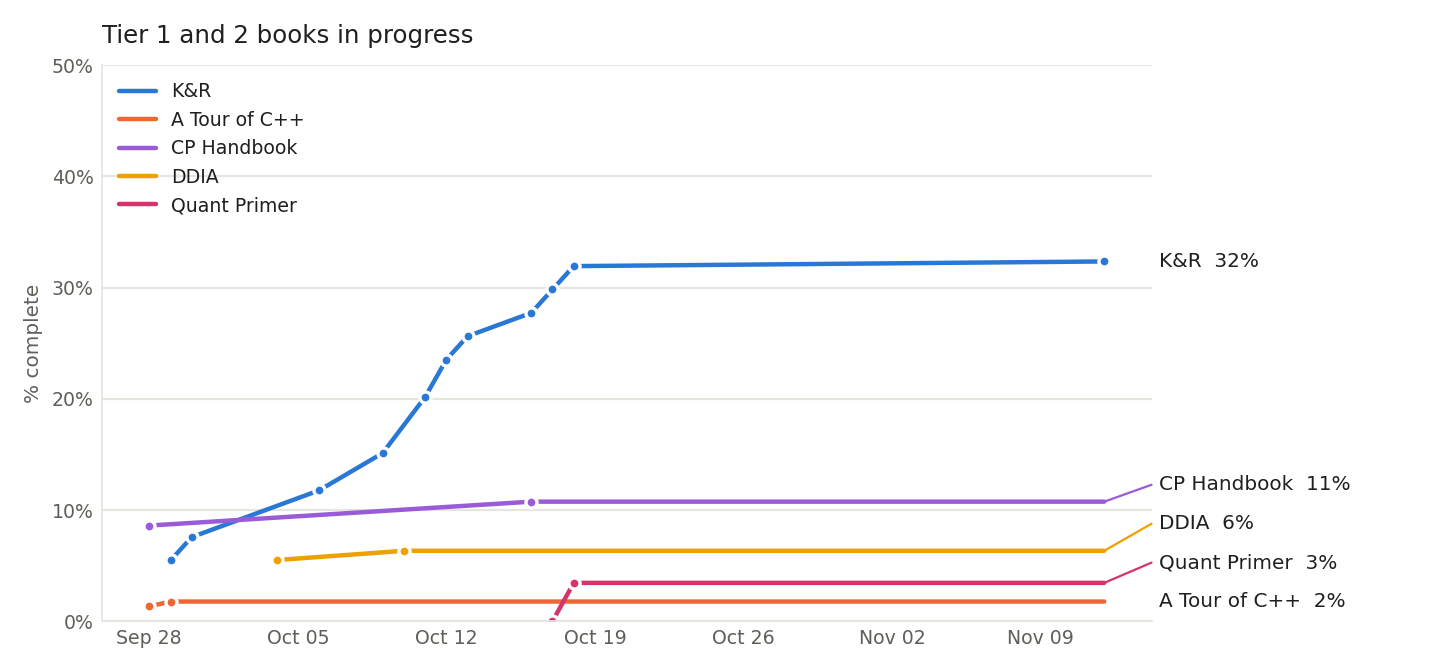
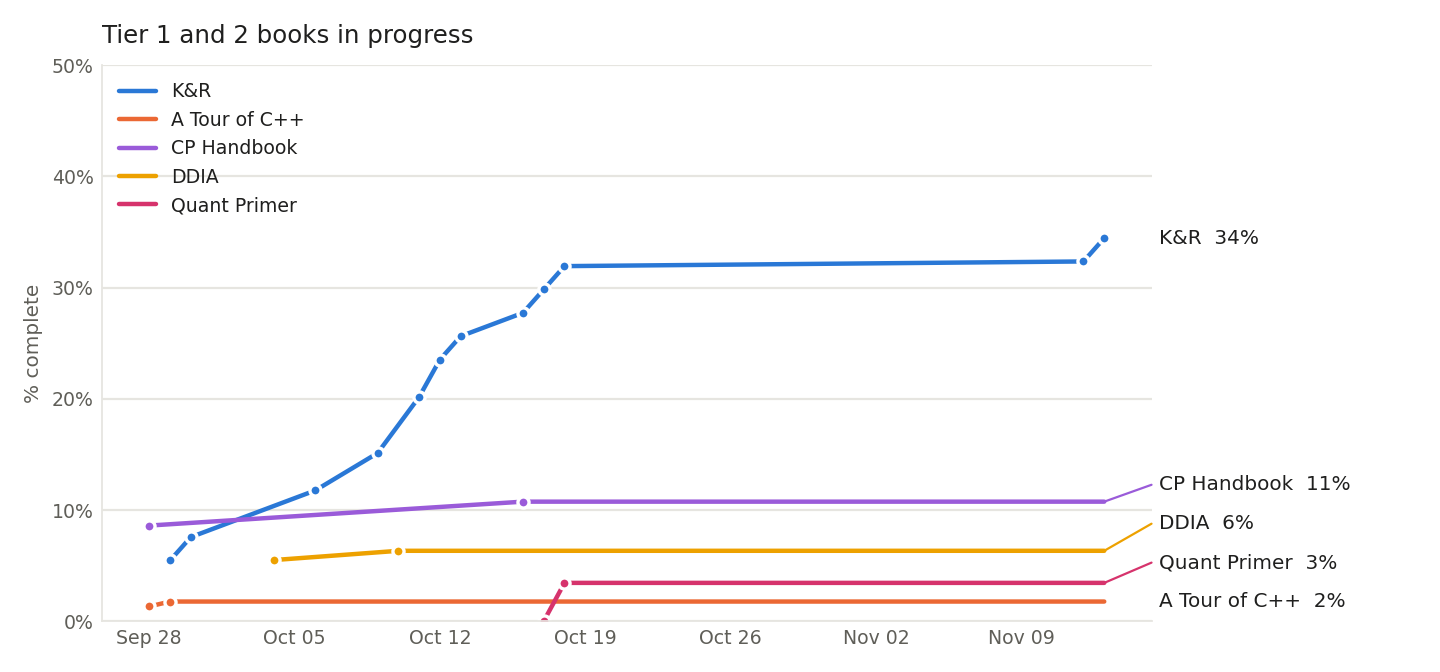
Log K&R progress, 82 pages read, finished chapter 4

diff --git a/tracks/quant.md b/tracks/quant.md
@@ -8,8 +8,8 @@
   memmove over contiguous memory that runs at many GB/s. For a few hundred elements it is often faster than a skip list's
   pointer chasing, allocations, and random-level logic. Big-O hides constant factors and cache behavior. Read K&R for the
   memory model, pointers, and arrays; the cache-locality half of the lesson belongs to the low-latency book in the career track.
-  Log: 2026-09-29 started, read to page 13. 2026-09-30 to page 18. 2026-10-06 to page 28. 2026-10-09 to page 36, finished chapter 1. 2026-10-11 to page 41 (through 2.6), then read 2.8 through 2.12 with 2.7 skipped. 2026-10-12 backfilled 2.7, chapter 2 done, then to page 56. 2026-10-13 to page 61, chapter 3 done. 2026-10-16 to page 66, 4.2 done. 2026-10-17 to page 71, 4.3 done (reverse Polish calculator). 2026-10-18 to page 76, 4.8 done. 2026-11-12 to page 77, first page back after a 25-day break. Currently on
-  page 78 of 238 (32%), around section 4.9 Initialization.
+  Log: 2026-09-29 started, read to page 13. 2026-09-30 to page 18. 2026-10-06 to page 28. 2026-10-09 to page 36, finished chapter 1. 2026-10-11 to page 41 (through 2.6), then read 2.8 through 2.12 with 2.7 skipped. 2026-10-12 backfilled 2.7, chapter 2 done, then to page 56. 2026-10-13 to page 61, chapter 3 done. 2026-10-16 to page 66, 4.2 done. 2026-10-17 to page 71, 4.3 done (reverse Polish calculator). 2026-10-18 to page 76, 4.8 done. 2026-11-12 to page 77, first page back after a 25-day break. 2026-11-13 to page 82, chapter 4 done (4.9 to 4.11: initialization, recursion, preprocessor). Currently on
+  page 83 of 238 (34%), start of chapter 5 Pointers and Arrays.
 - [~] **A Tour of C++** by Bjarne Stroustrup (Tier 1)
   Fast, authoritative overview of modern C++. Second priority overall, after K&R. Also pays off directly in competitive programming.
   Plan (started 2026-09-28): one pass, no re-reading. Chapters 1 to 8 (core language) at one chapter per sitting with a

diff --git a/README.md b/README.md
@@ -15,7 +15,7 @@ Personal reading list across three tracks. Each track lives in its own file unde
 <!-- progress:start -->
 | Book | Progress | | Unit |
 |---|---|---|---|
-| K&R | `██████░░░░░░░░░░░░░░` | 32% | 77 of 238 pages |
+| K&R | `███████░░░░░░░░░░░░░` | 34% | 82 of 238 pages |
 | A Tour of C++ | `░░░░░░░░░░░░░░░░░░░░` | 2% | 4 of 226 pages |
 | CP Handbook | `██░░░░░░░░░░░░░░░░░░` | 11% | 30 of 279 pages |
 | DDIA | `█░░░░░░░░░░░░░░░░░░░` | 6% | 38 of 600 pages |
